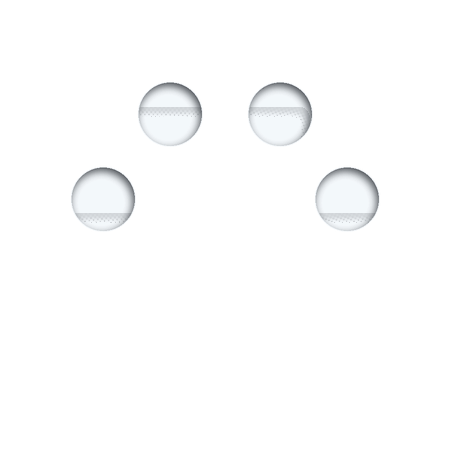
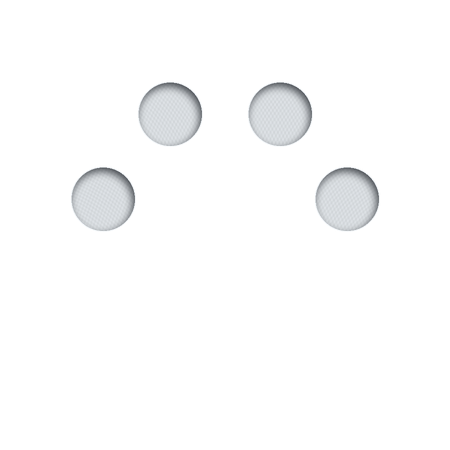
Fix texture artifacts on round complications for honeycomb and solar moire

diff --git a/generate_clean_backgrounds_and_quad_chambers.py b/generate_clean_backgrounds_and_quad_chambers.py
@@ -1061,38 +1061,46 @@ print("Saved tex_arc_invert_default.png")
 
 # 4. Textures
 tex_configs = [
-    ('tex_screen_hex_light.png',   'tex_arc_hex_light.png',   'tex_arc_invert_hex_light.png',   True,  0.14, 0.00, 1.00),
-    ('tex_screen_hex_dark.png',    'tex_arc_hex_dark.png',    'tex_arc_invert_hex_dark.png',    False, 0.22, 0.07, 0.78),
-    ('tex_screen_moire_light.png', 'tex_arc_moire_light.png', 'tex_arc_invert_moire_light.png', True,  0.15, 0.00, 1.00),
-    ('tex_screen_moire_dark.png',  'tex_arc_moire_dark.png',  'tex_arc_invert_moire_dark.png',  True,  0.30, 0.08, 0.65),
+    ('tex_screen_hex_light.png',   'tex_arc_hex_light.png',   'tex_arc_invert_hex_light.png',   True,  0.14, 0.00, 1.00, 'hex'),
+    ('tex_screen_hex_dark.png',    'tex_arc_hex_dark.png',    'tex_arc_invert_hex_dark.png',    False, 0.22, 0.07, 0.78, 'hex'),
+    ('tex_screen_moire_light.png', 'tex_arc_moire_light.png', 'tex_arc_invert_moire_light.png', True,  0.15, 0.00, 1.00, 'moire'),
+    ('tex_screen_moire_dark.png',  'tex_arc_moire_dark.png',  'tex_arc_invert_moire_dark.png',  True,  0.30, 0.08, 0.65, 'moire'),
 ]
 
+Y_2d, X_2d = np.meshgrid(range(450), range(450), indexing='ij')
+
 arc_mask_450 = np.zeros((450, 450), dtype=float)
-Y450, X450 = np.ogrid[:450, :450]
 for cx_d, cy_d in centers:
-    dist_sq = (X450 - cx_d)**2 + (Y450 - cy_d)**2
-    m = np.clip((r_inner_c + 0.5 - np.sqrt(dist_sq)), 0.0, 1.0)
+    dist = np.sqrt((X_2d - cx_d)**2 + (Y_2d - cy_d)**2)
+    m = np.clip(r_inner_c + 0.5 - dist, 0.0, 1.0)
     arc_mask_450 = np.maximum(arc_mask_450, m)
 
 sh_alpha_450 = np.array(Image.fromarray((sh_alpha_2x * 255.0).astype(np.uint8)).resize((450, 450), Image.Resampling.LANCZOS)).astype(float) / 255.0
 inv_base_450 = Image.fromarray(inv_arr).resize((450, 450), Image.Resampling.LANCZOS)
 
-for src_name, dark_out_name, inv_out_name, inv_polarity, contrast_str, base_dark, dark_scale in tex_configs:
+for src_name, dark_out_name, inv_out_name, inv_polarity, contrast_str, base_dark, dark_scale, kind in tex_configs:
     src_file = os.path.join(OUTPUT_DIR, src_name)
     if not os.path.exists(src_file):
         continue
     raw_tex = Image.open(src_file).convert('RGBA')
     raw_arr = np.array(raw_tex).astype(float)
-    tw, th = raw_tex.size
 
-    tiled_v = np.zeros((450, 450), dtype=float)
-    tiled_a = np.zeros((450, 450), dtype=float)
-    for y in range(450):
-        for x in range(450):
-            tiled_v[y, x] = raw_arr[y % th, x % tw, 0] / 255.0
-            tiled_a[y, x] = raw_arr[y % th, x % tw, 3] / 255.0
+    if kind == 'hex':
+        # Exact 30x34 mathematical seamless honeycomb tile sampled from clean interior
+        hex_tile = raw_arr[20:54, 30:60, 3] / 255.0
+        pat_alpha = hex_tile[(Y_2d - 198) % 34, (X_2d - 100) % 30]
+    else:
+        # Pure solar moire sampled from clean interior rows 18..82, cols 10..270
+        moire_clean = raw_arr[:, :, 3] / 255.0
+        pat_alpha = np.zeros((450, 450), dtype=float)
+        for (cx_d, cy_d), x_off in zip(centers, [10, 70, 140, 200]):
+            dist = np.sqrt((X_2d - cx_d)**2 + (Y_2d - cy_d)**2)
+            mask_dial = dist <= r_inner_c + 1.0
+            y_idx = np.clip(18 + (Y_2d - (cy_d - 32)), 16, 85).astype(int)
+            x_idx = np.clip(x_off + (X_2d - (cx_d - 32)), 10, 275).astype(int)
+            pat_alpha[mask_dial] = moire_clean[y_idx[mask_dial], x_idx[mask_dial]]
 
-    dark_pure_op = tiled_a * tiled_v * dark_scale * arc_mask_450
+    dark_pure_op = pat_alpha * dark_scale * arc_mask_450
     dark_arr = np.zeros((450, 450, 4), dtype=np.uint8)
     dark_arr[:, :, 0] = 255
     dark_arr[:, :, 1] = 255
@@ -1102,9 +1110,7 @@ for src_name, dark_out_name, inv_out_name, inv_polarity, contrast_str, base_dark
     if os.path.isdir(EXPORT_DIR):
         Image.fromarray(dark_arr).save(os.path.join(EXPORT_DIR, dark_out_name))
 
-    valid_v = raw_arr[:, :, 0]
-    v_min, v_max = np.percentile(valid_v, 2), np.percentile(valid_v, 98)
-    pat_norm = np.clip((tiled_v - v_min/255.0) / max(0.01, (v_max - v_min)/255.0), 0.0, 1.0)
+    pat_norm = pat_alpha
     pattern_darkness = (1.0 - pat_norm) if inv_polarity else pat_norm
     pat_dark_alpha = (base_dark + pattern_darkness * contrast_str) * arc_mask_450
     comb_tex_alpha = np.clip(1.0 - (1.0 - pat_dark_alpha) * (1.0 - sh_alpha_450), 0.0, 1.0)
